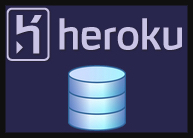
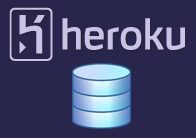
Quick-save.

Changed region(s): [[0.0, 0.0, 1.0, 1.0]]

diff --git a/_scss/_front-page.scss b/_scss/_front-page.scss
@@ -185,6 +185,23 @@ header {
                         background-size: contain;
                         background-repeat: no-repeat;
                         background-position: center;
+
+                        @media only screen and (max-width: 1170px) {
+                            zoom: 0.90;
+                        }
+
+                        @media only screen and (max-width: 768px) {
+                            float: left !important;
+                            //border-top: 8px solid $theme-4;
+                            margin-left: 20%;
+                            margin-bottom: 2%;
+                            zoom: 0.75;
+                        }
+                    }
+                    @media only screen and (max-width: 768px) {
+                        h3 {
+                            clear: both;
+                        }
                     }
                 }
 
@@ -196,9 +213,18 @@ header {
 
                 li.project-heroku-db {
                     &:before {
-                        background-image: url('../img/heroku_db.jpg');
-                        width: $project-photo-size / 2;
-                        height: $project-photo-size / 2;
+                        background-image: url('../img/heroku_db.png');
+                        width: 157px;
+                        height: 110px;
+                        border-style: solid;
+                        border-color: $theme-4;
+                        border-left: 2px;
+                        border-top: 2px;
+                        border-bottom: 2px;
+                        border-right: 2px;
+                        box-shadow: 1px 1px 1px 1px $theme-4,
+                                    -1px -1px 1px 1px $theme-4;
+                        border-radius: 10%;
                     }
                 }
 
@@ -251,31 +277,4 @@ header {
 
 .photo-ben {
     background-image: url('../img/ben.jpg');
-}
-
-@media only screen and (max-width: 1170px) {
-    .projects {
-        li {
-            &:before {
-                zoom: 0.75;
-            }
-        }
-    }
-
-}
-
-@media only screen and (max-width: 768px) {
-    .projects {
-        li {
-            &:before {
-                float: left !important;
-                margin-left: 20%;
-                zoom: 0.75;
-            }
-            h3 {
-                clear: both;
-            }
-        }
-    }
-
 }

diff --git a/css/main.css b/css/main.css
@@ -682,12 +682,32 @@ header .photo {
       background-size: contain;
       background-repeat: no-repeat;
       background-position: center; }
+      @media only screen and (max-width: 1170px) {
+        .wrapper .main .projects ul li:before {
+          zoom: 0.90; } }
+      @media only screen and (max-width: 768px) {
+        .wrapper .main .projects ul li:before {
+          float: left !important;
+          margin-left: 20%;
+          margin-bottom: 2%;
+          zoom: 0.75; } }
+    @media only screen and (max-width: 768px) {
+      .wrapper .main .projects ul li h3 {
+        clear: both; } }
     .wrapper .main .projects ul li.project-alumina:before {
       background-image: url("../img/macbook_alumina_small.png"); }
     .wrapper .main .projects ul li.project-heroku-db:before {
-      background-image: url("../img/heroku_db.jpg");
-      width: 150px;
-      height: 150px; }
+      background-image: url("../img/heroku_db.png");
+      width: 157px;
+      height: 110px;
+      border-style: solid;
+      border-color: #404040;
+      border-left: 2px;
+      border-top: 2px;
+      border-bottom: 2px;
+      border-right: 2px;
+      box-shadow: 1px 1px 1px 1px #404040, -1px -1px 1px 1px #404040;
+      border-radius: 10%; }
     .wrapper .main .projects ul li.project-salesforce-s3:before {
       background-image: url("../img/salesforce_s3.png");
       width: 300px;
@@ -718,18 +738,6 @@ header .photo {
 
 .photo-ben {
   background-image: url("../img/ben.jpg"); }
-
-@media only screen and (max-width: 1170px) {
-  .projects li:before {
-    zoom: 0.75; } }
-
-@media only screen and (max-width: 768px) {
-  .projects li:before {
-    float: left !important;
-    margin-left: 20%;
-    zoom: 0.75; }
-  .projects li h3 {
-    clear: both; } }
 
 /**
  * Syntax highlighting styles
